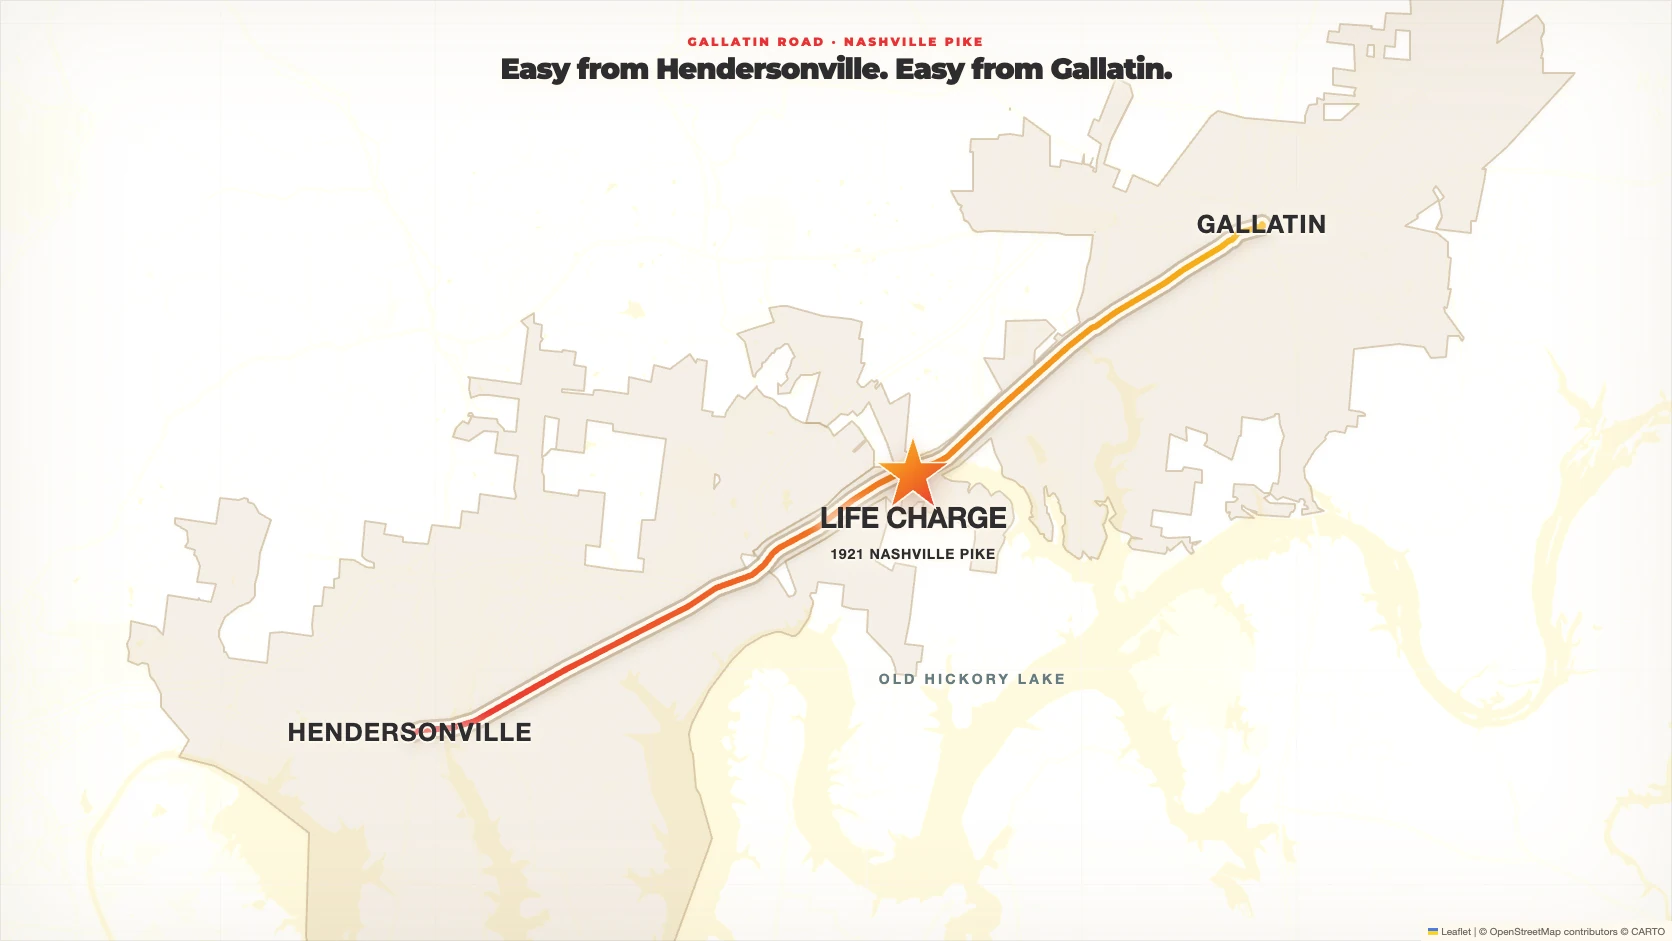
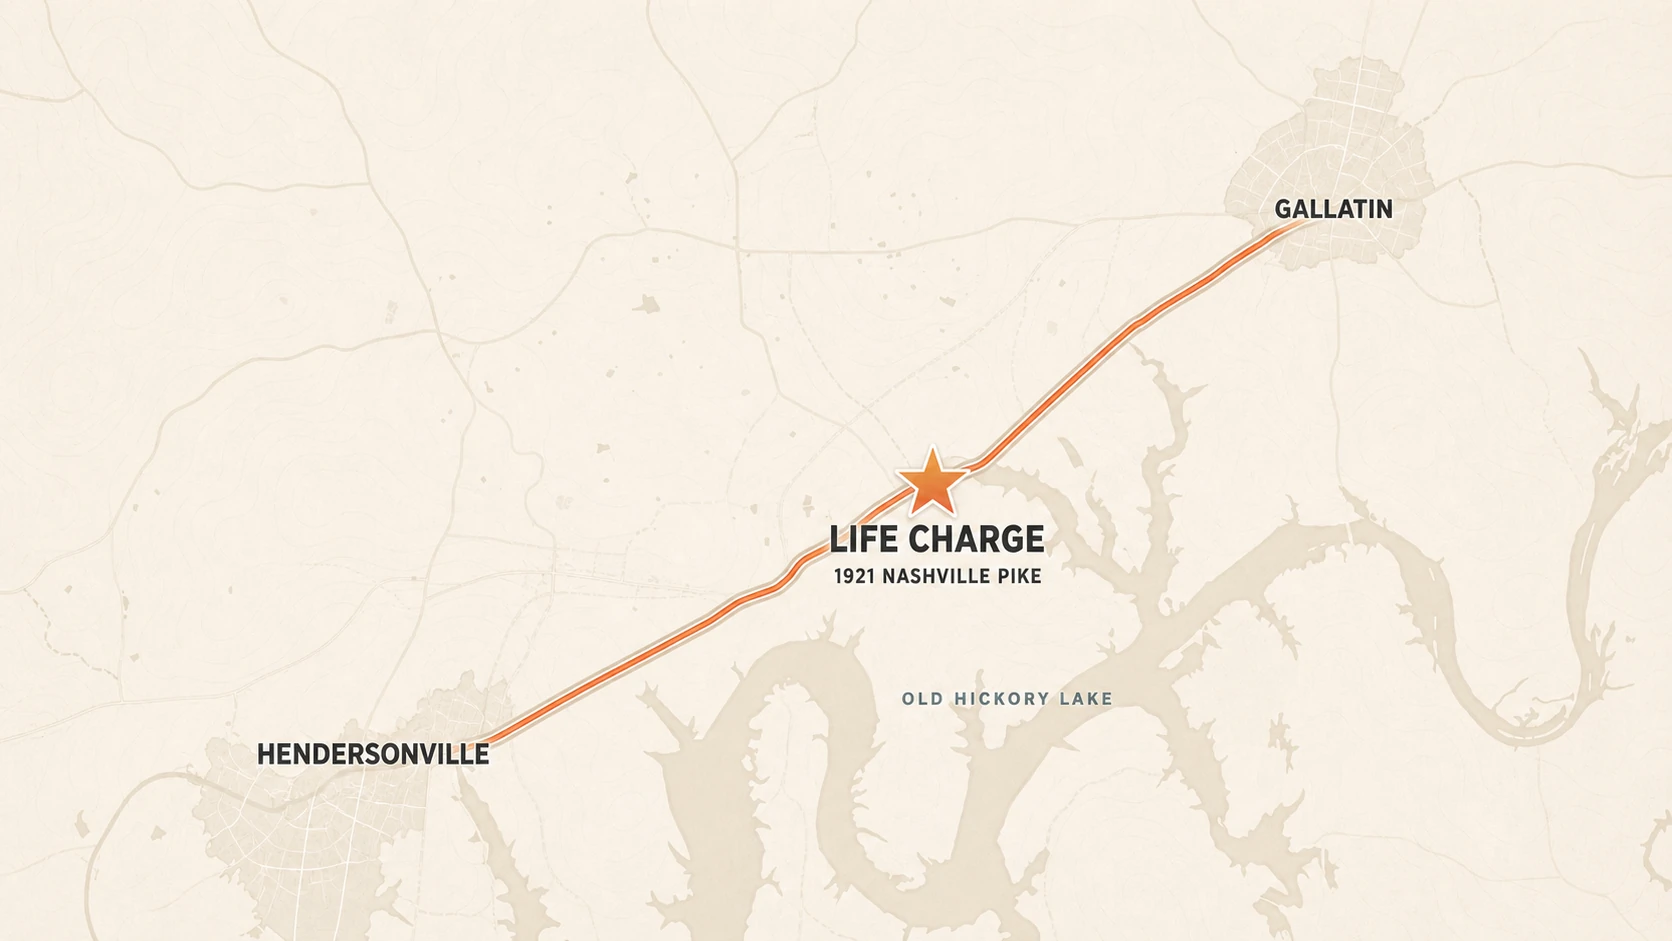
Refine location map and connect GHL lead webhook

diff --git a/new-patient-offer/index.html b/new-patient-offer/index.html
@@ -422,8 +422,8 @@
       </div>
       <a class="location-map-card" data-track="directions" href="https://www.google.com/maps/search/?api=1&amp;query=Life+Charge+Chiropractic+Gallatin+TN" target="_blank" rel="noopener" aria-label="Open Life Charge Chiropractic in Google Maps">
         <picture>
-          <source media="(max-width:720px)" srcset="../assets/photos/location-hendersonville-gallatin-mobile.webp?v=premium2" width="1080" height="1350">
-          <img src="../assets/photos/location-hendersonville-gallatin.webp?v=premium2" width="1672" height="941" alt="Map based on real road geography showing Life Charge Chiropractic on Nashville Pike between Hendersonville and Gallatin beside Old Hickory Lake" loading="lazy">
+          <source media="(max-width:720px)" srcset="../assets/photos/location-hendersonville-gallatin-mobile.webp?v=editorial3" width="1080" height="1350">
+          <img src="../assets/photos/location-hendersonville-gallatin.webp?v=editorial3" width="1672" height="941" alt="Map based on real road geography showing Life Charge Chiropractic on Nashville Pike between Hendersonville and Gallatin beside Old Hickory Lake" loading="lazy">
         </picture>
       </a>
       <div class="location-meta">

diff --git a/assets/js/new-patient-offer.js b/assets/js/new-patient-offer.js
@@ -1,7 +1,7 @@
 (function () {
   'use strict';
 
-  var WEBHOOK_URL = 'https://services.leadconnectorhq.com/hooks/7gE4vBVcRffrJnXyvGmu/webhook-trigger/9c5d118a-8317-4a2a-b14a-d5760f038385';
+  var WEBHOOK_URL = 'https://services.leadconnectorhq.com/hooks/7gE4vBVcRffrJnXyvGmu/webhook-trigger/81c6a464-264f-4573-b771-956bf2bd5b23';
   var BOOKING_URL = 'https://schedule.lifechargechiropractic.com/new-patient-offer';
   var ATTRIBUTION_STORAGE_KEY = 'lc_attribution_v1';
   var ATTRIBUTION_KEYS = [
